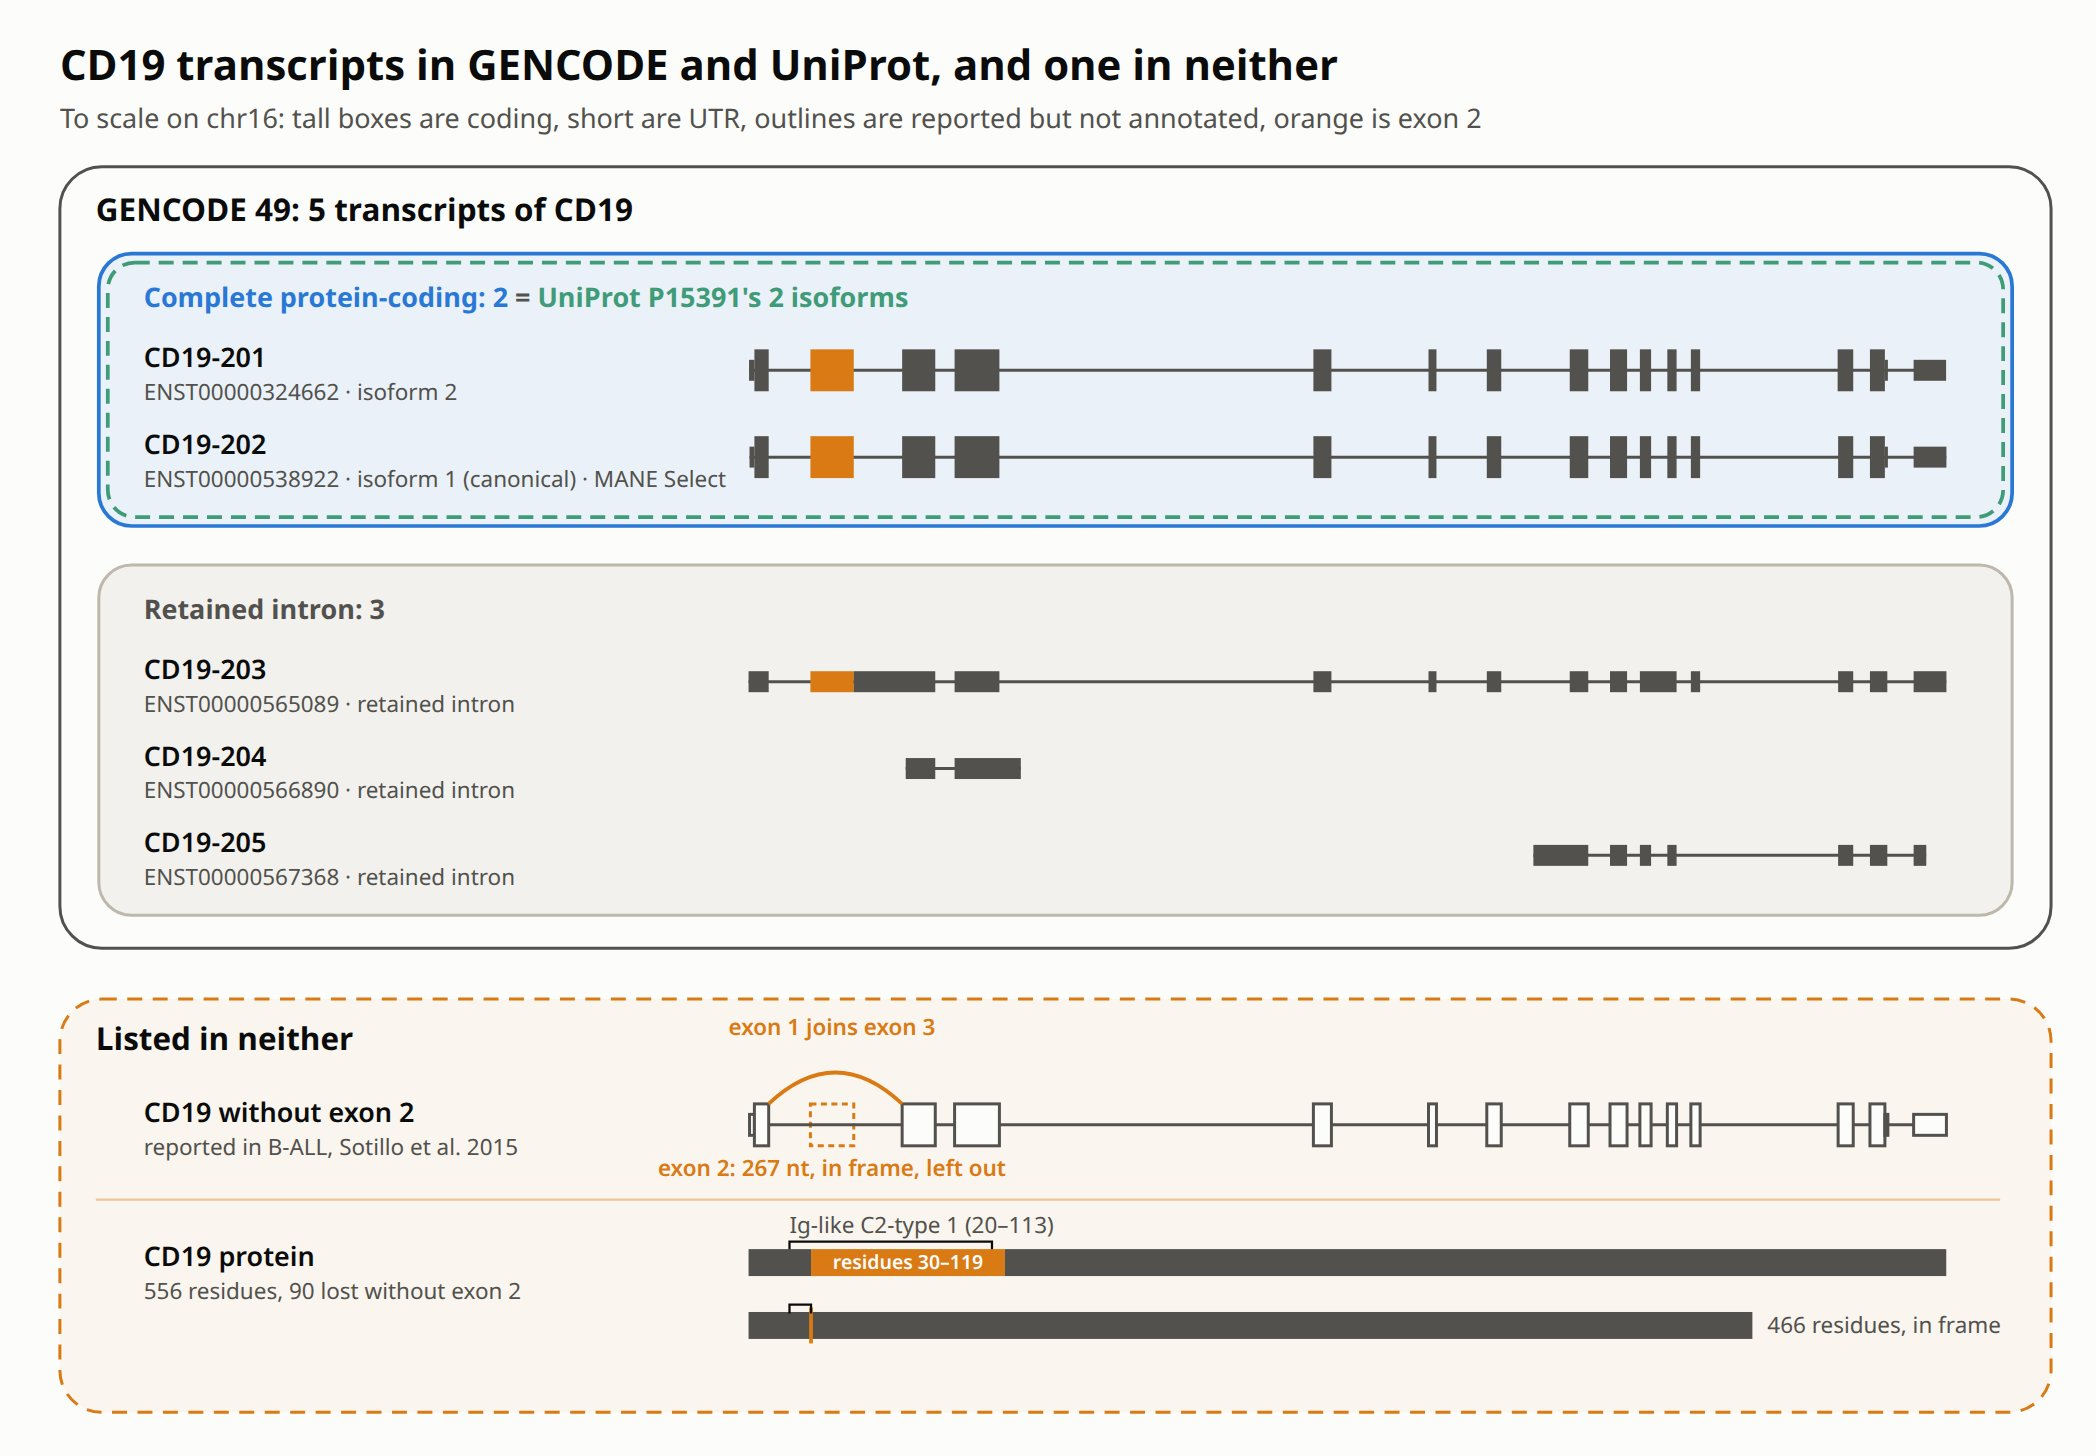
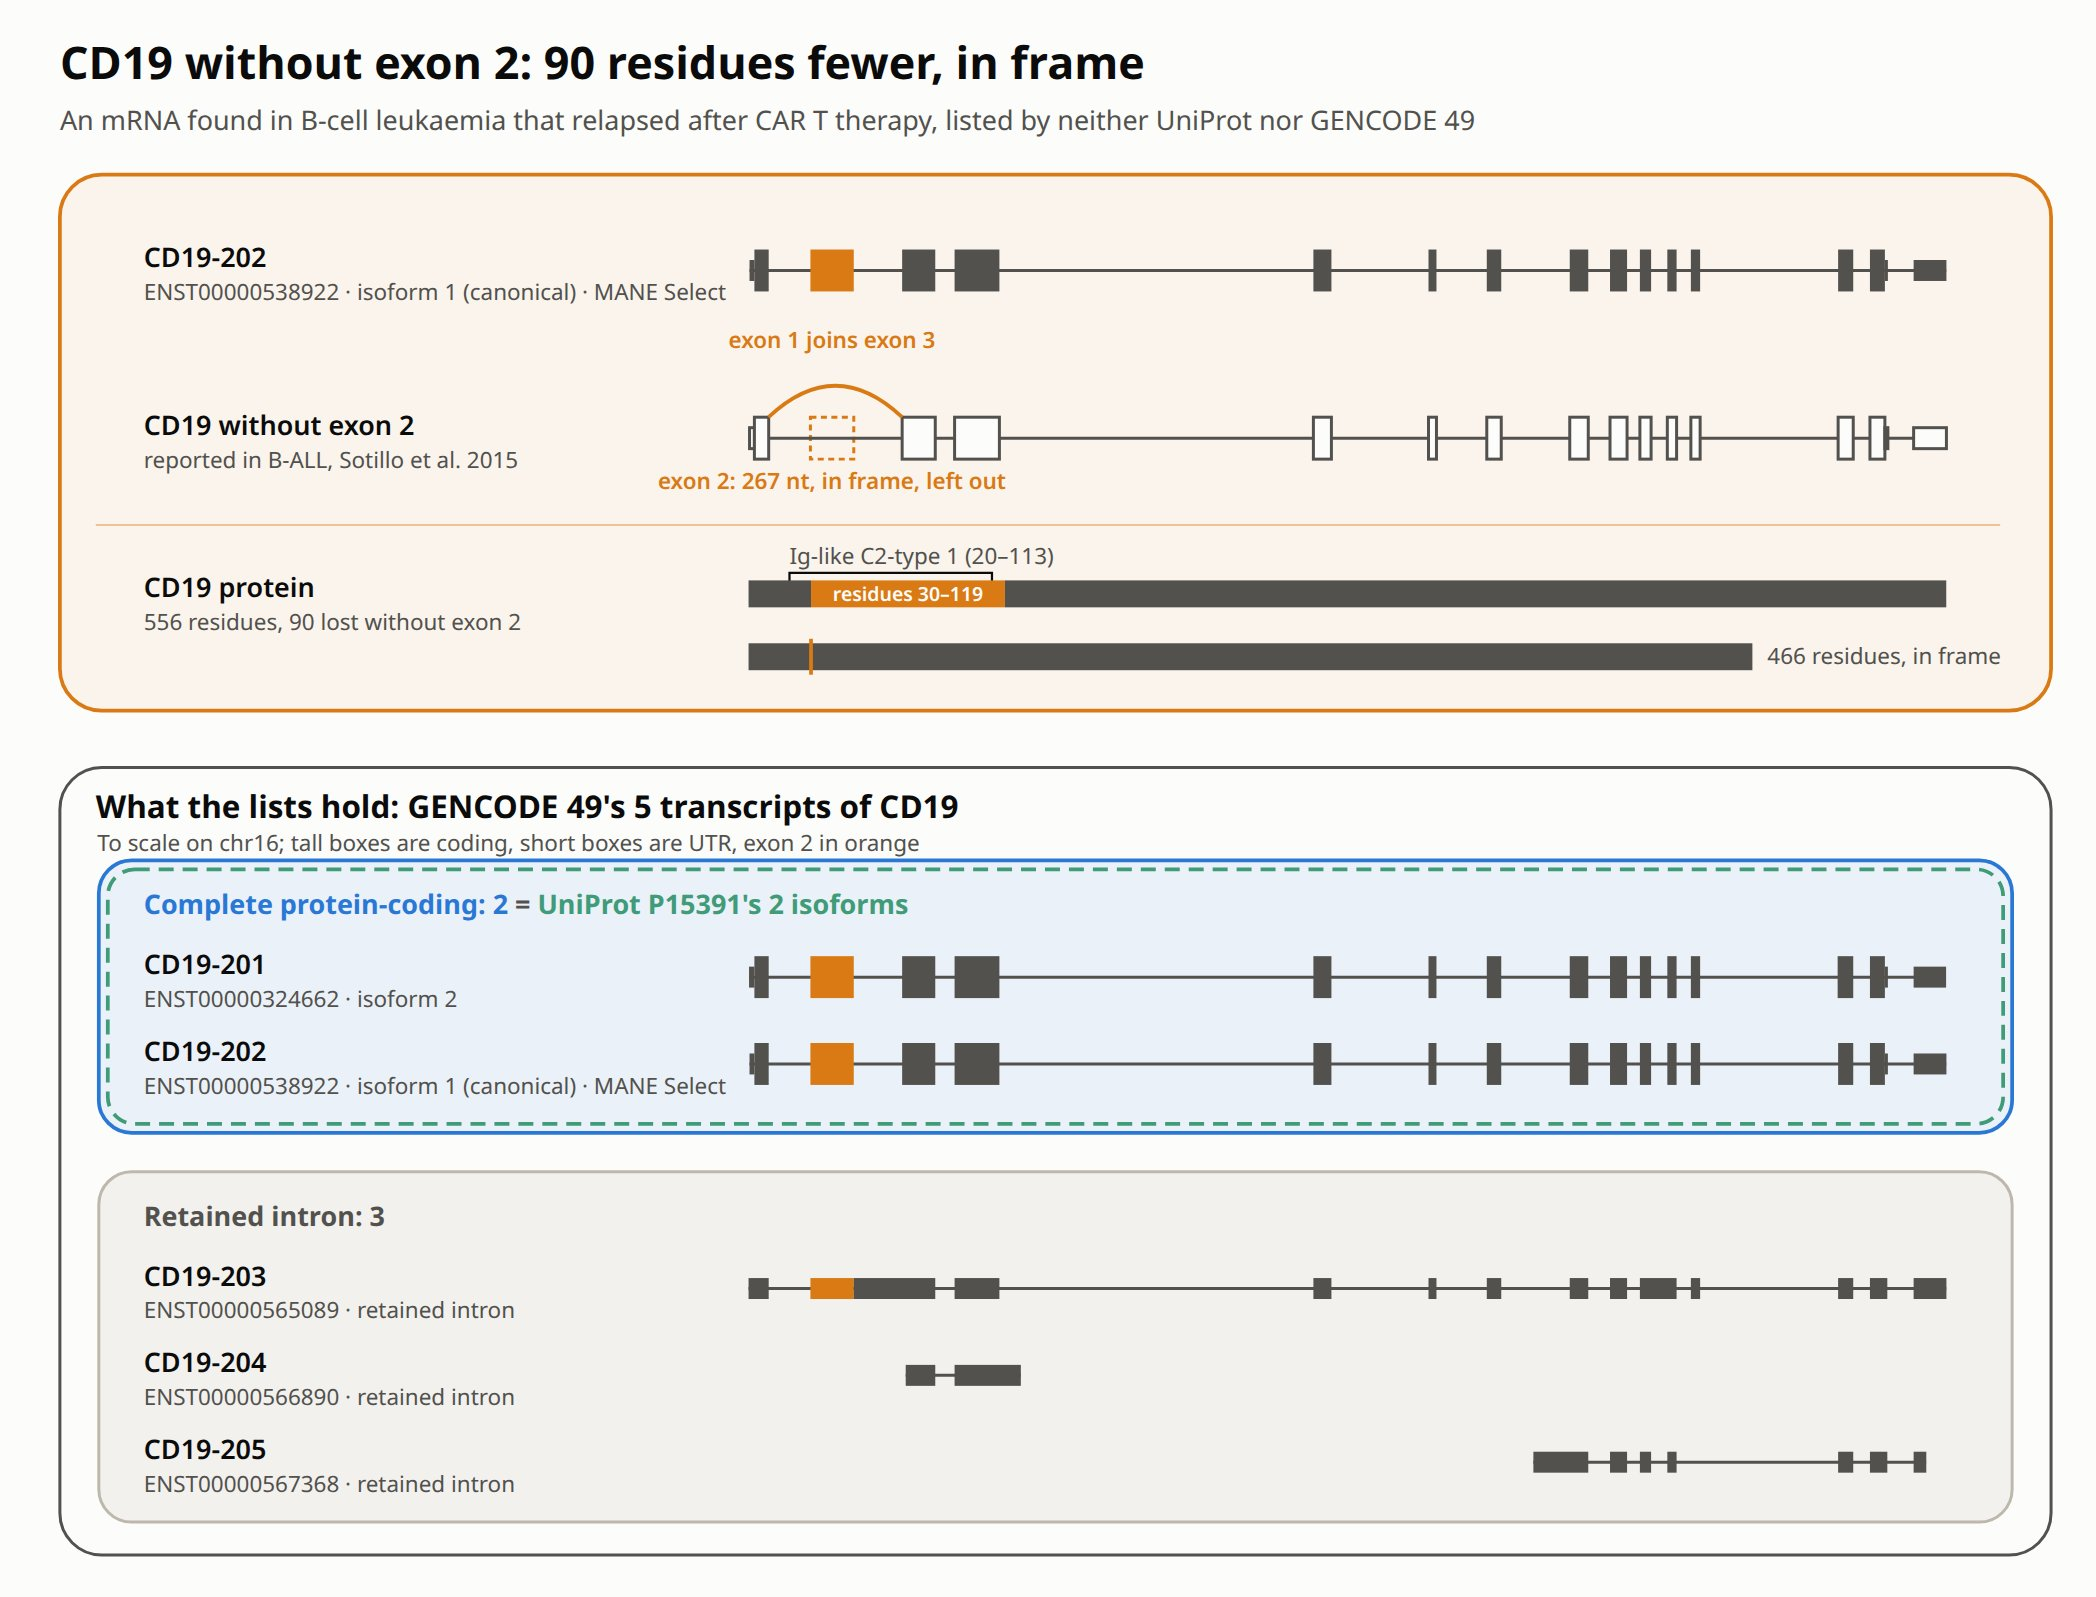
CD19 hero: lead with the exon 2 skip, annotation lists below
The figure opened with GENCODE's five transcripts and put the skipped
exon in a dashed box at the foot, so the card crop on the index showed
bookkeeping instead of the story. Now the MANE Select transcript and the
mRNA without exon 2 sit together at the top with the protein bars under
them, and the GENCODE and UniProt sets follow in a second panel.

Changed region(s): [[0.031, 0.0309, 0.9924, 0.989]]

diff --git a/web/lib/transcript-sets-figure.ts b/web/lib/transcript-sets-figure.ts
@@ -9,6 +9,11 @@ const ROW = 58
 const UTR = 14
 const CODING = 28
 
+export interface Reported {
+  summary: string
+  cite: string
+}
+
 function sentenceCase(text: string) {
   return text.charAt(0).toUpperCase() + text.slice(1)
 }
@@ -48,6 +53,7 @@ export function transcriptSetsFigure(
   record: GeneRecord,
   transcripts: GeneTranscript[],
   exon: number,
+  reported: Reported,
 ) {
   const forms = [
     {
@@ -127,13 +133,6 @@ export function transcriptSetsFigure(
     ].join(' · ')
     return `${label(t.name, detail, y)}${glyph(t.exons, t.cds, y, false)}`
   }
-  const codingTop = 168
-  const codingBottom = codingTop + 66 + coding.length * ROW
-  const otherTop = codingBottom + 26
-  const otherBottom = otherTop + 60 + others.length * ROW
-  const frameBottom = otherBottom + 22
-  const skipTop = frameBottom + 34
-  const skipY = skipTop + 84
   const [lostFrom, lostTo] = residuesOfExon(record.exons?.junctions ?? [], exon)
   const lost = lostTo - lostFrom + 1
   const domain = record.features.find(
@@ -143,25 +142,42 @@ export function transcriptSetsFigure(
     LEFT + ((residue - 1) / record.length) * (RIGHT - LEFT)
   const shiftedX = (residue: number) =>
     proteinX(residue > lostTo ? residue - lost : residue)
-  const bar = (y: number, from: number, to: number, fill: string, shifted: boolean) => {
+  const bar = (
+    y: number,
+    from: number,
+    to: number,
+    fill: string,
+    shifted: boolean,
+  ) => {
     const place = shifted ? shiftedX : proteinX
     return `<rect x="${place(from)}" y="${y - 9}" width="${place(to + 1) - place(from)}" height="18" fill="${fill}" />`
   }
-  const bracket = (y: number, from: number, to: number, shifted: boolean, text: string) => {
+  const bracket = (
+    y: number,
+    from: number,
+    to: number,
+    shifted: boolean,
+    text: string,
+  ) => {
     const place = shifted ? shiftedX : proteinX
     return `<path d="M${place(from)} ${y - 8} V${y - 14} H${place(to + 1)} V${y - 8}" fill="none" stroke="var(--text)" stroke-width="1.5" />${text ? `<text x="${place(from)}" y="${y - 20}" class="small">${esc(text)}</text>` : ''}`
   }
-  const proteinTop = skipY + 92
+  const leadTop = 116
+  const canonicalY = leadTop + 64
+  const skipY = canonicalY + 112
+  const proteinTop = skipY + 104
+  const leadBottom = proteinTop + 78
+  const setsTop = leadBottom + 38
+  const codingTop = setsTop + 62
+  const codingBottom = codingTop + 66 + coding.length * ROW
+  const otherTop = codingBottom + 26
+  const otherBottom = otherTop + 60 + others.length * ROW
+  const height = otherBottom + 42
   const proteinRows = (y: number) => {
     const grey = 'var(--text-2)'
     const orange = 'var(--caution)'
-    const domainSpan = domain
-      ? [domain.start, Math.min(domain.end, lostFrom - 1)]
-      : null
-    return `<line x1="64" y1="${y - 42}" x2="${WIDTH - 64}" y2="${y - 42}" stroke="var(--caution)" stroke-opacity="0.4" stroke-width="1.5" />${label(`${record.gene} protein`, `${record.length} residues, ${lost} lost without exon ${exon}`, y + 4)}${domain ? bracket(y, domain.start, domain.end, false, `${domain.description} (${domain.start}–${domain.end})`) : ''}${bar(y, 1, lostFrom - 1, grey, false)}${bar(y, lostFrom, lostTo, orange, false)}${bar(y, lostTo + 1, record.length, grey, false)}<text x="${(proteinX(lostFrom) + proteinX(lostTo + 1)) / 2}" y="${y + 4.5}" class="bar-label">residues ${lostFrom}–${lostTo}</text>${bar(y + 42, 1, lostFrom - 1, grey, true)}${bar(y + 42, lostTo + 1, record.length, grey, true)}<line x1="${shiftedX(lostTo + 1)}" x2="${shiftedX(lostTo + 1)}" y1="${y + 30}" y2="${y + 54}" stroke="${orange}" stroke-width="2.5" />${domainSpan && domainSpan[1] >= domainSpan[0] ? bracket(y + 42, domainSpan[0], domainSpan[1], true, '') : ''}<text x="${shiftedX(record.length + 1) + 10}" y="${y + 47}" class="small">${record.length - lost} residues, in frame</text>`
+    return `<line x1="64" y1="${y - 46}" x2="${WIDTH - 64}" y2="${y - 46}" stroke="var(--caution)" stroke-opacity="0.4" stroke-width="1.5" />${label(`${record.gene} protein`, `${record.length} residues, ${lost} lost without exon ${exon}`, y + 4)}${domain ? bracket(y, domain.start, domain.end, false, `${domain.description} (${domain.start}–${domain.end})`) : ''}${bar(y, 1, lostFrom - 1, grey, false)}${bar(y, lostFrom, lostTo, orange, false)}${bar(y, lostTo + 1, record.length, grey, false)}<text x="${(proteinX(lostFrom) + proteinX(lostTo + 1)) / 2}" y="${y + 4.5}" class="bar-label">residues ${lostFrom}–${lostTo}</text>${bar(y + 42, 1, lostFrom - 1, grey, true)}${bar(y + 42, lostTo + 1, record.length, grey, true)}<line x1="${shiftedX(lostTo + 1)}" x2="${shiftedX(lostTo + 1)}" y1="${y + 30}" y2="${y + 54}" stroke="${orange}" stroke-width="2.5" /><text x="${shiftedX(record.length + 1) + 10}" y="${y + 47}" class="small">${record.length - lost} residues, in frame</text>`
   }
-  const skipBottom = proteinTop + 100
-  const height = skipBottom + 20
   const arc =
     skip && canonical && highlight
       ? (() => {
@@ -172,21 +188,21 @@ export function transcriptSetsFigure(
             : ''
         })()
       : ''
-  const sets = `<rect x="40" y="110" width="${WIDTH - 70}" height="${frameBottom - 110}" rx="28" fill="none" stroke="var(--text-2)" stroke-width="2" /><text x="64" y="146" class="set">GENCODE 49: ${transcripts.length} transcripts of ${esc(record.gene)}</text><rect x="66" y="${codingTop}" width="${WIDTH - 122}" height="${codingBottom - codingTop}" rx="22" fill="var(--interface)" fill-opacity="0.08" stroke="var(--interface)" stroke-width="2.5" /><rect x="72" y="${codingTop + 6}" width="${WIDTH - 134}" height="${codingBottom - codingTop - 12}" rx="18" fill="none" stroke="var(--partner)" stroke-width="2.5" stroke-dasharray="10 6" /><text x="96" y="${codingTop + 36}" class="subset"><tspan fill="var(--interface)">Complete protein-coding: ${coding.length}</tspan><tspan fill="var(--text-2)"> = </tspan><tspan fill="var(--partner)">UniProt ${esc(record.accession)}'s ${record.isoforms.length + 1} isoforms</tspan></text><rect x="66" y="${otherTop}" width="${WIDTH - 122}" height="${otherBottom - otherTop}" rx="22" fill="var(--chain)" fill-opacity="0.15" stroke="var(--chain)" stroke-width="2" /><text x="96" y="${otherTop + 36}" class="subset" fill="var(--text-2)">${esc(sentenceCase([...new Set(others.map(t => t.type.replace(/_/g, ' ')))].join(', ')))}: ${others.length}</text>`
+  const ghost = highlight
+    ? `<rect x="${x(highlight[0])}" y="${skipY - CODING / 2}" width="${x(highlight[1] + 1) - x(highlight[0])}" height="${CODING}" fill="none" stroke="var(--caution)" stroke-width="2" stroke-dasharray="4 3" /><text x="${(x(highlight[0]) + x(highlight[1])) / 2}" y="${skipY + 34}" class="small mid">exon ${exon}: ${highlight[1] - highlight[0] + 1} nt, ${skip?.inFrame ? 'in frame' : 'out of frame'}, left out</text>`
+    : ''
+  const lead =
+    skip && canonical
+      ? `<rect x="40" y="${leadTop}" width="${WIDTH - 70}" height="${leadBottom - leadTop}" rx="28" fill="var(--caution)" fill-opacity="0.06" stroke="var(--caution)" stroke-width="2.5" />${row(canonical, canonicalY)}${label(`${record.gene} without exon ${exon}`, reported.cite, skipY)}${ghost}${glyph(skip.exons, skip.cds, skipY, true)}${arc}${proteinRows(proteinTop)}`
+      : ''
+  const sets = `<rect x="40" y="${setsTop}" width="${WIDTH - 70}" height="${otherBottom + 22 - setsTop}" rx="28" fill="none" stroke="var(--text-2)" stroke-width="2" /><text x="64" y="${setsTop + 34}" class="set">What the lists hold: GENCODE 49's ${transcripts.length} transcripts of ${esc(record.gene)}</text><text x="${64 + 1}" y="${setsTop + 56}" class="small">To scale on ${esc(record.locus?.split(':')[0] ?? '')}; tall boxes are coding, short boxes are UTR, exon ${exon} in orange</text><rect x="66" y="${codingTop}" width="${WIDTH - 122}" height="${codingBottom - codingTop}" rx="22" fill="var(--interface)" fill-opacity="0.08" stroke="var(--interface)" stroke-width="2.5" /><rect x="72" y="${codingTop + 6}" width="${WIDTH - 134}" height="${codingBottom - codingTop - 12}" rx="18" fill="none" stroke="var(--partner)" stroke-width="2.5" stroke-dasharray="10 6" /><text x="96" y="${codingTop + 36}" class="subset"><tspan fill="var(--interface)">Complete protein-coding: ${coding.length}</tspan><tspan fill="var(--text-2)"> = </tspan><tspan fill="var(--partner)">UniProt ${esc(record.accession)}'s ${record.isoforms.length + 1} isoforms</tspan></text><rect x="66" y="${otherTop}" width="${WIDTH - 122}" height="${otherBottom - otherTop}" rx="22" fill="var(--chain)" fill-opacity="0.15" stroke="var(--chain)" stroke-width="2" /><text x="96" y="${otherTop + 36}" class="subset" fill="var(--text-2)">${esc(sentenceCase([...new Set(others.map(t => t.type.replace(/_/g, ' ')))].join(', ')))}: ${others.length}</text>`
   const rows = [
     ...coding.map((t, i) => row(t, codingTop + 78 + i * ROW)),
     ...others.map((t, i) => row(t, otherTop + 78 + i * ROW)),
   ].join('')
-  const ghost = highlight
-    ? `<rect x="${x(highlight[0])}" y="${skipY - CODING / 2}" width="${x(highlight[1] + 1) - x(highlight[0])}" height="${CODING}" fill="none" stroke="var(--caution)" stroke-width="2" stroke-dasharray="4 3" /><text x="${(x(highlight[0]) + x(highlight[1])) / 2}" y="${skipY + 34}" class="small mid">exon ${exon}: ${highlight[1] - highlight[0] + 1} nt, in frame, left out</text>`
-    : ''
-  const outside =
-    skip && canonical
-      ? `<rect x="40" y="${skipTop}" width="${WIDTH - 70}" height="${skipBottom - skipTop}" rx="28" fill="var(--caution)" fill-opacity="0.05" stroke="var(--caution)" stroke-width="2" stroke-dasharray="10 7" /><text x="64" y="${skipTop + 34}" class="set" fill="var(--caution)">Listed in neither</text>${label(`${record.gene} without exon ${exon}`, 'reported in B-ALL, Sotillo et al. 2015', skipY)}${ghost}${glyph(skip.exons, skip.cds, skipY, true)}${arc}${proteinRows(proteinTop)}`
-      : ''
-  return `<svg class="transcript-sets-figure" viewBox="0 0 ${WIDTH} ${height}" role="img" aria-label="${esc(`${record.gene} transcripts drawn from their exons: the ${transcripts.length} GENCODE 49 lists, of which the ${coding.length} complete coding ones are UniProt's isoforms, and an mRNA lacking exon ${exon} that neither lists`)}"><style>
+  return `<svg class="transcript-sets-figure" viewBox="0 0 ${WIDTH} ${height}" role="img" aria-label="${esc(`${record.gene} without exon ${exon}, drawn above the ${transcripts.length} transcripts GENCODE 49 lists: the skipped exon leaves ${lost} residues out of the protein, and neither GENCODE nor UniProt lists the mRNA`)}"><style>
 .transcript-sets-figure text { font-family: system-ui, -apple-system, 'Segoe UI', sans-serif; }
-.transcript-sets-figure .title { font-size: 28px; font-weight: 650; fill: var(--text); }
+.transcript-sets-figure .title { font-size: 30px; font-weight: 650; fill: var(--text); }
 .transcript-sets-figure .subtitle { font-size: 18px; fill: var(--text-2); }
 .transcript-sets-figure .set { font-size: 21px; font-weight: 700; fill: var(--text); }
 .transcript-sets-figure .subset { font-size: 18px; font-weight: 650; }
@@ -194,5 +210,5 @@ export function transcriptSetsFigure(
 .transcript-sets-figure .small { font-size: 15px; fill: var(--text-2); }
 .transcript-sets-figure .bar-label { font-size: 13px; font-weight: 600; text-anchor: middle; fill: var(--surface); }
 .transcript-sets-figure .mid { text-anchor: middle; fill: var(--caution); font-weight: 600; }
-</style><text x="40" y="52" class="title">${esc(record.gene)} transcripts in GENCODE and UniProt, and one in neither</text><text x="40" y="84" class="subtitle">To scale on ${esc(record.locus?.split(':')[0] ?? '')}: tall boxes are coding, short are UTR, outlines are reported but not annotated, orange is exon ${exon}</text>${sets}${rows}${outside}</svg>`
+</style><text x="40" y="52" class="title">${esc(record.gene)} without exon ${exon}: ${lost} residues fewer, ${skip?.inFrame ? 'in frame' : 'out of frame'}</text><text x="40" y="86" class="subtitle">${esc(reported.summary)}</text>${lead}${sets}${rows}</svg>`
 }

diff --git a/web/lib/figures.test.ts b/web/lib/figures.test.ts
@@ -7,11 +7,14 @@ import { acceptorFigure, acceptors } from './acceptor-figure.ts'
 import { activeSiteFigure } from './active-site-figure.ts'
 import { gene } from './data.ts'
 import { expressionOf } from './expression.ts'
-import { CEBPB_MRNA, CEBPB_NAMES } from './posts-data.ts'
+import { CD19_REPORTED, CEBPB_MRNA, CEBPB_NAMES } from './posts-data.ts'
 import { cd19Transcripts } from './cd19.ts'
 import { sashimiFigure } from './sashimi-figure.ts'
 import { startCodons } from './start-codons-figure.ts'
-import { residuesOfExon, transcriptSetsFigure } from './transcript-sets-figure.ts'
+import {
+  residuesOfExon,
+  transcriptSetsFigure,
+} from './transcript-sets-figure.ts'
 
 const window = JSON.parse(
   readFileSync(
@@ -136,8 +139,16 @@ test('exon 2 of CD19 encodes residues 30 to 119, and the figure draws them lost'
   const record = gene('CD19')
   const [from, to] = residuesOfExon(record.exons?.junctions ?? [], 2)
   expect([from, to]).toEqual([30, 119])
-  const svg = transcriptSetsFigure(record, cd19Transcripts().transcripts, 2)
+  const svg = transcriptSetsFigure(
+    record,
+    cd19Transcripts().transcripts,
+    2,
+    CD19_REPORTED,
+  )
   expect(svg).toContain('exon 2: 267 nt, in frame, left out')
   expect(svg).toContain('556 residues, 90 lost without exon 2')
   expect(svg).toContain('466 residues, in frame')
+  expect(svg.indexOf('without exon 2')).toBeLessThan(
+    svg.indexOf('What the lists hold'),
+  )
 })

diff --git a/web/lib/posts-data.ts b/web/lib/posts-data.ts
@@ -1,4 +1,5 @@
 import type { Mrna } from './start-codons-figure.ts'
+import type { Reported } from './transcript-sets-figure.ts'
 
 export const CEBPB_MRNA: Mrna = {
   refseq: 'NM_001285879.1',
@@ -13,4 +14,10 @@ export const CEBPB_NAMES: Record<string, string> = {
   'P17676-1': 'LAP*',
   'P17676-2': 'LAP',
   'P17676-3': 'LIP',
+}
+
+export const CD19_REPORTED: Reported = {
+  summary:
+    'An mRNA found in B-cell leukaemia that relapsed after CAR T therapy, listed by neither UniProt nor GENCODE 49',
+  cite: 'reported in B-ALL, Sotillo et al. 2015',
 }
